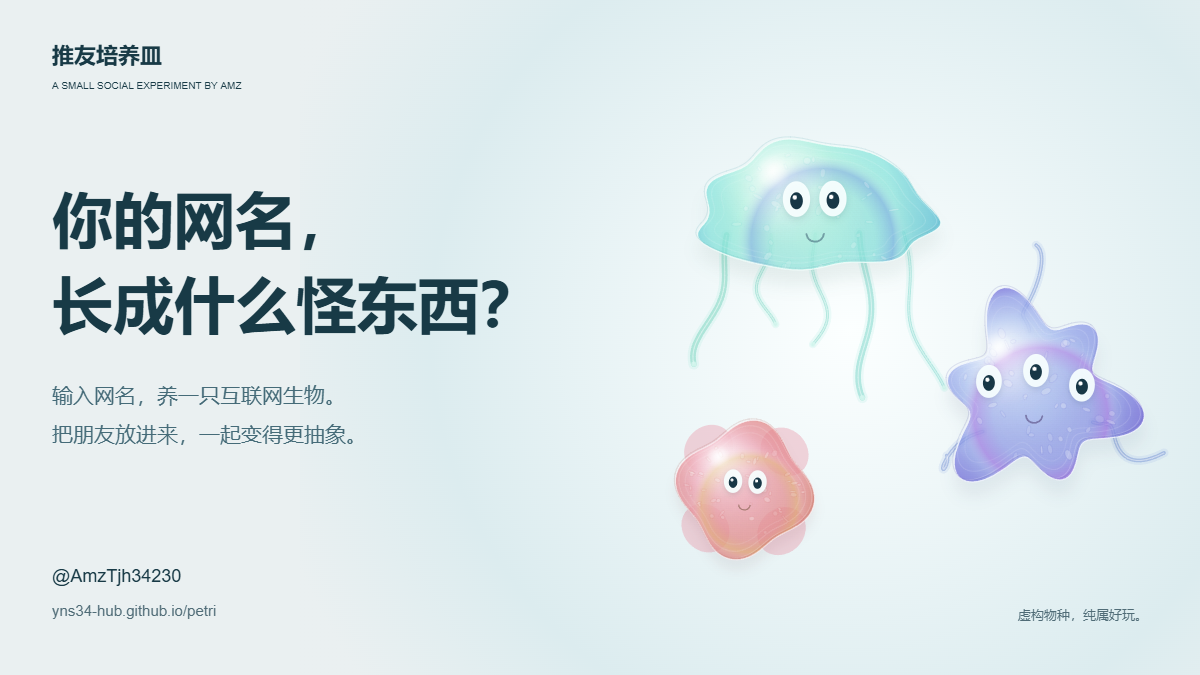
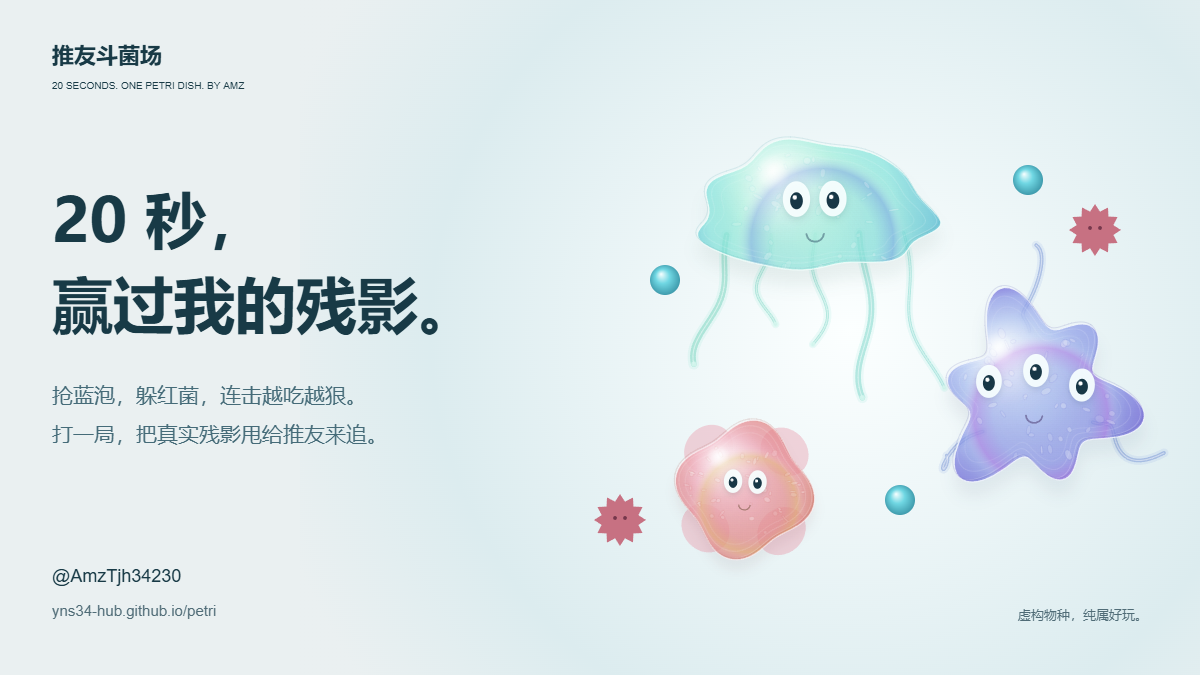
Add 20-second arena with real asynchronous ghost challenges

diff --git a/world.js b/world.js
@@ -1,4 +1,5 @@
 import { random } from './genetics.js';
+import { ROUND_SECONDS, REPLAY_HZ, REPLAY_FRAMES, sampleReplay, scoreTitle } from './battle.js';
 
 const TAU = Math.PI * 2;
 const color = (h,s,l,a=1) => `hsla(${h},${s}%,${l}%,${a})`;
@@ -101,14 +102,16 @@ export function drawCreature(ctx,s,x,y,r,t=0,options={}) {
 export class PetriWorld {
   constructor(canvas){
     this.canvas=canvas;this.ctx=canvas.getContext('2d');if(!this.ctx)throw new Error('Canvas unavailable');
-    this.specimens=[];this.particles=[];this.pointer={x:-999,y:-999,active:false};this.food=[];this.ripples=[];
+    this.specimens=[];this.particles=[];this.pointer={x:-999,y:-999,active:false};this.food=[];this.ripples=[];this.game=null;this.keys=new Set();
     this.t=0;this.last=0;this.lastDraw=0;this.width=0;this.height=0;this.paused=matchMedia('(prefers-reduced-motion: reduce)').matches;this.frame=0;
     this.resizeObserver=new ResizeObserver(()=>this.resize());this.resizeObserver.observe(canvas);
     this.onPointerMove=e=>{const rect=canvas.getBoundingClientRect();this.pointer={x:e.clientX-rect.left,y:e.clientY-rect.top,active:true};if(this.paused)this.draw();};
     this.onPointerLeave=()=>{this.pointer.active=false;};
-    this.onPointerDown=e=>{this.onPointerMove(e);const {x,y}=this.pointer;this.ripples.push({x,y,age:0});this.specimens.forEach(p=>{const dx=p.x-x,dy=p.y-y,d=Math.hypot(dx,dy);if(d<this.radius*.8){p.vx+=dx/Math.max(d,1)*140;p.vy+=dy/Math.max(d,1)*100;}});if(this.paused)this.draw();};
+    this.onPointerDown=e=>{this.onPointerMove(e);if(this.game)return;const {x,y}=this.pointer;this.ripples.push({x,y,age:0});this.specimens.forEach(p=>{const dx=p.x-x,dy=p.y-y,d=Math.hypot(dx,dy);if(d<this.radius*.8){p.vx+=dx/Math.max(d,1)*140;p.vy+=dy/Math.max(d,1)*100;}});if(this.paused)this.draw();};
     canvas.addEventListener('pointermove',this.onPointerMove);canvas.addEventListener('pointerleave',this.onPointerLeave);canvas.addEventListener('pointerdown',this.onPointerDown);
-    this.onVisibility=()=>{this.last=0;};document.addEventListener('visibilitychange',this.onVisibility);
+    this.onVisibility=()=>{this.last=0;if(document.hidden&&this.game)this.cancelGame('离开页面，本局已取消。再开一局就能重新挑战。');};document.addEventListener('visibilitychange',this.onVisibility);
+    this.onKeyDown=e=>{if(!this.game||e.target.closest('input,textarea,select'))return;const key=e.key.toLowerCase();if(['arrowup','arrowdown','arrowleft','arrowright','w','a','s','d',' '].includes(key)){e.preventDefault();this.keys.add(key);if(key===' '&&!e.repeat)this.dash();}};
+    this.onKeyUp=e=>this.keys.delete(e.key.toLowerCase());document.addEventListener('keydown',this.onKeyDown);document.addEventListener('keyup',this.onKeyUp);
     this.resize();this.animate=this.animate.bind(this);this.frame=requestAnimationFrame(this.animate);
   }
   resize(){
@@ -126,11 +129,45 @@ export class PetriWorld {
     for(let i=0;i<8;i++){const angle=i/8*TAU;this.food.push({x:this.cx+Math.cos(angle)*this.radius*.5,y:this.cy+Math.sin(angle)*this.radius*.48,life:7+i*.3});}
     this.specimens.forEach(p=>p.fed=3);if(this.paused)this.draw();
   }
-  togglePause(){this.paused=!this.paused;this.last=0;this.draw();return this.paused;}
+  togglePause(){if(this.game){this.cancelGame('本局已结束，准备好可以重新开战。');return this.paused;}this.paused=!this.paused;this.last=0;this.draw();return this.paused;}
+  startGame({specimen,seed,opponent,onTick,onFinish,onCancel}){
+    const rng=random(seed),spawn=()=>{const a=rng()*TAU,d=Math.sqrt(rng())*.77;return{x:Math.cos(a)*d,y:Math.sin(a)*d};};
+    this.game={specimen,seed,opponent,onTick,onFinish,onCancel,rng,spawn,started:performance.now()+1800,elapsed:0,x:-.3,y:.3,score:0,combo:0,lastEat:-5,hits:0,collected:0,safeUntil:0,dashUntil:0,dashReady:0,frames:[],dots:Array.from({length:5},spawn),lastHud:-1};
+    this.keys.clear();this.paused=false;this.pointer.active=false;this.canvas.classList.add('is-playing');this.draw();
+  }
+  dash(){const g=this.game;if(g&&g.elapsed>=g.dashReady){g.dashUntil=g.elapsed+.3;g.dashReady=g.elapsed+3;}}
+  cancelGame(message){const g=this.game;if(!g)return;this.game=null;this.canvas.classList.remove('is-playing');this.keys.clear();g.onCancel?.(message);this.draw();}
+  updateGame(dt,now){
+    const g=this.game;if(!g)return;g.elapsed=Math.max(0,Math.min(ROUND_SECONDS,(now-g.started)/1000));
+    if(now<g.started){g.onTick?.({remaining:ROUND_SECONDS,score:0,combo:0,opponentScore:g.opponent?0:null,dashReady:true,countdown:Math.ceil((g.started-now)/1000)});return;}
+    let dx=(this.keys.has('arrowright')||this.keys.has('d')?1:0)-(this.keys.has('arrowleft')||this.keys.has('a')?1:0),dy=(this.keys.has('arrowdown')||this.keys.has('s')?1:0)-(this.keys.has('arrowup')||this.keys.has('w')?1:0);
+    const usingKeys=dx||dy;
+    if(!usingKeys&&this.pointer.active){dx=(this.pointer.x-this.cx)/this.radius-g.x;dy=(this.pointer.y-this.cy)/this.radius-g.y;}
+    const distance=Math.hypot(dx,dy),speed=g.elapsed<g.dashUntil?2.7:1.25;
+    if(distance>.002){const step=Math.min(distance,dt*speed);g.x+=dx/distance*step;g.y+=dy/distance*step;}
+    const edge=Math.hypot(g.x,g.y);if(edge>.82){g.x*=.82/edge;g.y*=.82/edge;}
+    g.dots.forEach(dot=>{if(Math.hypot(dot.x-g.x,dot.y-g.y)<.13){g.combo=g.elapsed-g.lastEat<1.65?Math.min(5,g.combo+1):1;g.score+=10*g.combo;g.collected++;g.lastEat=g.elapsed;let next=g.spawn();for(let i=0;i<12&&Math.hypot(next.x-g.x,next.y-g.y)<.3;i++)next=g.spawn();dot.x=next.x;dot.y=next.y;}});
+    const hazards=this.gameHazards(g.elapsed);
+    if(g.elapsed>g.safeUntil&&hazards.some(h=>Math.hypot(h.x-g.x,h.y-g.y)<.16)){g.score=Math.max(0,g.score-15);g.combo=0;g.hits++;g.safeUntil=g.elapsed+1.1;}
+    // 每二百毫秒记录位置和真实累计分数，朋友打开后看到的是这一局的残影。
+    while(g.frames.length<Math.min(REPLAY_FRAMES,Math.floor(g.elapsed*REPLAY_HZ)+1))g.frames.push([g.x,g.y,g.score]);
+    if(g.elapsed-g.lastHud>.07){g.lastHud=g.elapsed;g.onTick?.({remaining:Math.max(0,ROUND_SECONDS-g.elapsed),score:g.score,combo:g.combo,opponentScore:g.opponent?sampleReplay(g.opponent.frames,g.elapsed).score:null,dashReady:g.elapsed>=g.dashReady});}
+    if(g.elapsed>=ROUND_SECONDS){while(g.frames.length<REPLAY_FRAMES)g.frames.push([g.x,g.y,g.score]);const result={seed:g.seed,score:g.score,frames:g.frames,hits:g.hits,collected:g.collected,opponentScore:g.opponent?.score??null};this.game=null;this.canvas.classList.remove('is-playing');this.keys.clear();g.onFinish?.(result);}
+  }
+  gameHazards(t){return[0,1,2].map((i)=>{const angle=t*(i===1?-.42:.35)+i*TAU/3;return{x:Math.cos(angle)*(.3+i*.13),y:Math.sin(angle)*(.38+i*.1)};});}
+  drawGame(){
+    const c=this.ctx,g=this.game;if(!g)return;const r=this.radius,toPixel=p=>({x:this.cx+p.x*r,y:this.cy+p.y*r});
+    g.dots.forEach((d,i)=>{const p=toPixel(d);const glow=c.createRadialGradient(p.x-2,p.y-3,0,p.x,p.y,r*.06);glow.addColorStop(0,'#f6ffff');glow.addColorStop(.28,'#66d7e8');glow.addColorStop(.74,'#329eb4');glow.addColorStop(1,'#359daf22');c.beginPath();c.arc(p.x,p.y,r*.048+Math.sin(this.t*4+i)*r*.003,0,TAU);c.fillStyle=glow;c.fill();});
+    this.gameHazards(g.elapsed).forEach((h,i)=>{const p=toPixel(h),points=[];for(let k=0;k<22;k++){const a=k/22*TAU,d=r*(k%2?.073:.1);points.push([p.x+Math.cos(a)*d,p.y+Math.sin(a)*d]);}const path=smoothPath(points);const fill=c.createRadialGradient(p.x-r*.03,p.y-r*.04,0,p.x,p.y,r*.11);fill.addColorStop(0,'#ffd2ce');fill.addColorStop(.45,'#db777f');fill.addColorStop(1,'#9b4357');c.fillStyle=fill;c.fill(path);c.fillStyle='#712b45';c.beginPath();c.arc(p.x-r*.024,p.y-r*.01,r*.009,0,TAU);c.arc(p.x+r*.024,p.y-r*.01,r*.009,0,TAU);c.fill();});
+    if(g.opponent){const ghost=sampleReplay(g.opponent.frames,g.elapsed),p=toPixel(ghost);c.save();c.globalAlpha=.45;drawCreature(c,g.opponent.specimen,p.x,p.y,r*.075,this.t,{blink:1});c.restore();c.beginPath();c.arc(p.x,p.y,r*.115,0,TAU);c.strokeStyle='#9d8ab47a';c.lineWidth=1;c.stroke();c.fillStyle='#725d98';c.font='10px Arial';c.textAlign='center';c.fillText(`@${g.opponent.specimen.name} 的残影`,p.x,p.y-r*.16,r*.9);}
+    const me=toPixel(g);c.save();if(g.elapsed<g.safeUntil)c.globalAlpha=.5+Math.sin(g.elapsed*25)*.3;drawCreature(c,g.specimen,me.x,me.y,r*.087,this.t,{blink:1});c.restore();
+    c.beginPath();c.arc(me.x,me.y,r*.12,0,TAU);c.strokeStyle='#176f8180';c.lineWidth=1.2;c.stroke();c.fillStyle='#183a46';c.font='10px "Microsoft YaHei",sans-serif';c.textAlign='center';c.fillText('你',me.x,me.y+r*.19);
+    if(g.elapsed<g.dashUntil){c.beginPath();c.arc(me.x,me.y,r*.12,0,TAU);c.strokeStyle='#fff';c.lineWidth=2;c.stroke();}
+  }
   animate(now){
     const dt=this.last?Math.min((now-this.last)/1000,.035):0;this.last=now;
     // 物理保持按真实时间更新，画面限于每秒约三十帧，避免手机反复计算玻璃阴影。
-    if(!this.paused&&!document.hidden){this.t+=dt;this.update(dt);if(now-this.lastDraw>=32){this.draw();this.lastDraw=now;}}
+    if(!this.paused&&!document.hidden){this.t+=dt;if(this.game)this.updateGame(dt,now);else this.update(dt);if(now-this.lastDraw>=32){this.draw();this.lastDraw=now;}}
     this.frame=requestAnimationFrame(this.animate);
   }
   update(dt){
@@ -168,6 +205,7 @@ export class PetriWorld {
   draw(){
     if(!this.ctx||!this.width)return;
     const c=this.ctx;c.clearRect(0,0,this.width,this.height);this.drawDish();
+    if(this.game){this.drawGame();return;}
     const two=this.specimens.length===2,r=this.radius*(two?.29:.43);
     this.ripples.forEach(w=>{c.beginPath();c.arc(w.x,w.y,w.age*this.radius*.48+8,0,TAU);c.lineWidth=1;c.strokeStyle=`rgba(255,255,255,${Math.max(0,.45-w.age*.2)})`;c.stroke();});
     for(const p of this.specimens){
@@ -177,18 +215,30 @@ export class PetriWorld {
     }
     this.food.forEach((f,i)=>{c.save();c.translate(f.x,f.y+Math.sin(this.t+i)*3);c.fillStyle='#c279957d';c.font='16px Arial';c.textAlign='center';c.fillText('♡',0,0);c.restore();});
   }
-  destroy(){cancelAnimationFrame(this.frame);this.resizeObserver.disconnect();this.canvas.removeEventListener('pointermove',this.onPointerMove);this.canvas.removeEventListener('pointerleave',this.onPointerLeave);this.canvas.removeEventListener('pointerdown',this.onPointerDown);document.removeEventListener('visibilitychange',this.onVisibility);}
+  destroy(){cancelAnimationFrame(this.frame);this.resizeObserver.disconnect();this.canvas.removeEventListener('pointermove',this.onPointerMove);this.canvas.removeEventListener('pointerleave',this.onPointerLeave);this.canvas.removeEventListener('pointerdown',this.onPointerDown);document.removeEventListener('visibilitychange',this.onVisibility);document.removeEventListener('keydown',this.onKeyDown);document.removeEventListener('keyup',this.onKeyUp);}
 }
 
 export function drawPoster(a,b,experiment){
   const canvas=document.createElement('canvas');canvas.width=1400;canvas.height=1700;const c=canvas.getContext('2d');if(!c)throw new Error('当前浏览器无法导出图片');
   c.fillStyle='#eaf0f1';c.fillRect(0,0,1400,1700);
   const grad=c.createRadialGradient(700,720,0,700,720,710);grad.addColorStop(0,'#fbffff');grad.addColorStop(.65,'#d3e9eb');grad.addColorStop(1,'#eaf0f1');c.fillStyle=grad;c.fillRect(0,0,1400,1700);
-  c.fillStyle='#183a46';c.font='bold 30px "Microsoft YaHei",sans-serif';c.fillText('推友培养皿',75,104);c.font='17px Arial';c.fillText('AMZ / INTERNET ORGANISMS',75,145);c.textAlign='right';c.font='23px Arial';c.fillText('@AmzTjh34230',1325,112);c.textAlign='left';
+  c.fillStyle='#183a46';c.font='bold 30px "Microsoft YaHei",sans-serif';c.fillText('推友斗菌场',75,104);c.font='17px Arial';c.fillText('AMZ / 20 SECONDS. ONE PETRI DISH.',75,145);c.textAlign='right';c.font='23px Arial';c.fillText('@AmzTjh34230',1325,112);c.textAlign='left';
   c.fillStyle='#526f7b';c.font='23px "Microsoft YaHei",sans-serif';c.fillText(b?'双人观察报告':'互联网物种证件',75,239);
   const specs=b?[a,b]:[a];specs.forEach((s,i)=>{const x=b?(i?985:415):700,y=690,r=b?200:290;drawCreature(c,s,x,y,r,1.8,{blink:1,gaze:{x:b?(i?-.7:.7):.1,y:0}});c.textAlign='center';c.fillStyle='#42636c';c.font='24px "Microsoft YaHei",sans-serif';c.fillText(`@${s.name}`,x,b?1090:1180,b?520:1200);});
   c.textAlign='left';c.fillStyle='#183a46';c.font=`bold ${b?64:63}px "Microsoft YaHei",sans-serif`;const title=b?experiment.title:a.title;c.fillText(title,75,1310);
   c.fillStyle='#506c77';c.font='29px "Microsoft YaHei",sans-serif';c.fillText(b?experiment.line:a.description,75,1382);c.font='27px "Microsoft YaHei",sans-serif';c.fillText(b?'把你们放在一起，会发生什么？':`「${a.quote}」`,75,1444);
   c.strokeStyle='#bed0d5';c.lineWidth=1;c.beginPath();c.moveTo(75,1510);c.lineTo(1325,1510);c.stroke();c.fillStyle='#2e5866';c.font='24px "Microsoft YaHei",sans-serif';c.fillText('你的网名，会长成什么样？',75,1574);c.font='22px Arial';c.textAlign='right';c.fillText('yns34-hub.github.io/petri',1325,1574);c.textAlign='left';c.fillStyle='#526e78';c.font='17px "Microsoft YaHei",sans-serif';c.fillText('由网名与心情生成 · 虚构物种，纯属好玩',75,1635);c.font='16px Arial';c.textAlign='right';c.fillText(a.code,1325,1635);
+  return canvas;
+}
+
+export function drawScorePoster(specimen,result){
+  const canvas=drawPoster(specimen,null,null),c=canvas.getContext('2d');
+  c.fillStyle='#eaf0f1';c.fillRect(0,190,1400,110);c.fillRect(0,1150,1400,360);
+  c.fillStyle='#506c77';c.font='25px "Microsoft YaHei",sans-serif';c.fillText(`推友斗菌场 / 20 秒真实战绩 / @${specimen.name}`,75,249,1250);
+  c.fillStyle='#183a46';c.font='bold 140px Arial';c.fillText(`${result.score}`,75,1305);c.font='32px "Microsoft YaHei",sans-serif';c.fillText('分',520,1300);
+  c.font='bold 51px "Microsoft YaHei",sans-serif';c.fillText(scoreTitle(result.score),75,1390);
+  c.fillStyle='#506c77';c.font='29px "Microsoft YaHei",sans-serif';c.fillText(`抢到 ${result.collected} 颗营养泡泡，碰撞 ${result.hits} 次。`,75,1450);
+  c.fillStyle='#183a46';c.font='26px "Microsoft YaHei",sans-serif';c.fillText('你能赢过我的残影吗？',780,1360);
+  c.fillStyle='#506c77';c.font='21px "Microsoft YaHei",sans-serif';c.fillText('打开挑战链接，同一场地见。',780,1410);
   return canvas;
 }

diff --git a/index.html b/index.html
@@ -2,39 +2,39 @@
 <html lang="zh-CN">
 <head>
   <meta charset="utf-8"><meta name="viewport" content="width=device-width,initial-scale=1,viewport-fit=cover">
-  <title>推友培养皿 · 你的网名，长成什么样？</title>
+  <title>推友斗菌场 · 20 秒，赢过我的残影</title>
   <meta name="theme-color" content="#eaf0f1">
-  <meta name="description" content="输入网名，养一只奇怪的互联网生物。把朋友也放进来，看看会不会一起发疯。AMZ 的社交小实验。">
-  <meta property="og:title" content="推友培养皿 · 把你的网名养成一种生物">
-  <meta property="og:description" content="你是潜水水母，还是抽象变形虫？把朋友也放进来，观察一下。">
+  <meta name="description" content="20 秒抢食竞技。吃蓝泡、躲红菌、冲刺连击。打完把真实操作残影发给朋友，来同一场地比分。AMZ 的推友斗菌场。">
+  <meta property="og:title" content="推友斗菌场 · 20 秒，赢过我的残影">
+  <meta property="og:description" content="抢蓝泡，躲红菌。打一局，把真实残影甩给朋友来追。">
   <meta property="og:type" content="website"><meta property="og:image" content="https://yns34-hub.github.io/petri/cover.png"><meta property="og:url" content="https://yns34-hub.github.io/petri/">
   <meta name="twitter:card" content="summary_large_image"><meta name="twitter:creator" content="@AmzTjh34230">
   <link rel="canonical" href="https://yns34-hub.github.io/petri/"><link rel="icon" href="./favicon.svg" type="image/svg+xml">
   <link rel="stylesheet" href="./style.css"><script type="module" src="./app.js"></script>
 </head>
 <body>
-  <header class="topbar"><a class="brand" href="./"><span class="brand-symbol" aria-hidden="true">◌</span><span>推友培养皿<small>A SMALL SOCIAL EXPERIMENT</small></span></a><nav><button class="quiet" id="about-open">实验说明</button><a class="creator" href="https://x.com/AmzTjh34230" target="_blank" rel="noopener noreferrer">AMZ 的小实验 ↗</a></nav></header>
+  <header class="topbar"><a class="brand" href="./"><span class="brand-symbol" aria-hidden="true">◌</span><span>推友斗菌场<small>20 SECONDS. ONE PETRI DISH.</small></span></a><nav><button class="quiet" id="about-open">怎么玩</button><a class="creator" href="https://x.com/AmzTjh34230" target="_blank" rel="noopener noreferrer">AMZ 的小实验 ↗</a></nav></header>
 
   <main class="lab">
-    <div class="scene-wrap"><canvas id="world" aria-label="会随指针游动的互联网生物培养皿" role="img"></canvas><div id="scene-error" hidden>当前浏览器没有开启画布。你仍然可以生成物种文字与分享链接。</div><div class="specimen-tag"><span class="tag-marker" aria-hidden="true"></span><span id="scene-code">AMZ / INTERNET ORGANISMS</span></div><div class="scene-guide"><span>戳一下它，或者投喂一点喜欢</span><div class="scene-controls"><button id="feed" aria-label="投喂生物">投喂 ♡</button><button id="pause" aria-label="暂停生物动画" aria-pressed="false">暂停 ⏸</button></div></div></div>
+    <div class="scene-wrap"><canvas id="world" tabindex="0" aria-label="抢食竞技场，鼠标或手指移动，方向键也可控制，空格冲刺" role="img"></canvas><div id="scene-error" hidden>当前浏览器没有开启画布，请换一个浏览器再玩。</div><div class="specimen-tag"><span class="tag-marker" aria-hidden="true"></span><span id="scene-code">AMZ / PETRI ARENA</span></div><div class="battle-hud" id="battle-hud" hidden><div><span>剩余时间</span><strong id="battle-time">20.0</strong></div><div><span>你的分数</span><strong id="battle-score">0</strong></div><div id="ghost-score-wrap" hidden><span>对手残影</span><strong id="ghost-score">0</strong></div></div><div id="battle-countdown" class="battle-countdown" hidden>2</div><div class="scene-guide"><span id="scene-hint">先挑一个选手，然后进入培养皿抢食。</span><div class="scene-controls"><button id="feed" aria-label="投喂生物">投喂 ♡</button><button id="pause" aria-label="暂停生物动画" aria-pressed="false">暂停 ⏸</button><button id="dash" hidden>冲刺 · 空格 ↗</button></div></div></div>
 
-    <section class="intro" aria-labelledby="headline"><p class="intro-kicker">你的互联网形状，有点奇怪。</p><h1 id="headline">把你的网名，<br>养成一种<span>生物。</span></h1><p class="intro-copy">有的只想潜水，有的一身反骨。<br>你呢，会长成什么样？</p>
+    <section class="intro" aria-labelledby="headline"><p class="intro-kicker">朋友的残影，已经在水里等你。</p><h1 id="headline">你养的怪东西，<br>能<span>赢过推友</span>吗？</h1><p class="intro-copy">20 秒抢食。蓝泡加分，红菌扣分。<br>连吃越快，连击越狠。</p><p id="opponent-invite" class="opponent-invite" hidden></p>
 
       <form id="specimen-form" novalidate><label for="name">先留下你的网名</label><div class="input-row"><span aria-hidden="true">@</span><input id="name" name="name" maxlength="48" autocomplete="off" autocapitalize="off" spellcheck="false" placeholder="网名或 X 用户名" value="AmzTjh34230" aria-describedby="name-error"><button class="grow-button" type="submit">养出来 ↗</button></div><p class="field-error" id="name-error" role="alert"></p><fieldset><legend>今天是哪一种状态？</legend><div class="mood-options"><label><input type="radio" name="mood" value="auto" checked><span>随便长长</span></label><label><input type="radio" name="mood" value="lurker"><span>默默潜水</span></label><label><input type="radio" name="mood" value="chaos"><span>有点抽象</span></label><label><input type="radio" name="mood" value="yapper"><span>忍不住说</span></label><label><input type="radio" name="mood" value="night"><span>半夜出没</span></label><label><input type="radio" name="mood" value="soft"><span>世界和平</span></label><label class="gallery-mood" hidden><input type="radio" name="mood" value="drift"><span>偶尔放电</span></label></div></fieldset></form>
 
-      <div class="social-teaser"><span aria-hidden="true">↳</span><p>再放进一位朋友，<br><b>观察你们会不会一起发疯。</b></p></div>
+      <div class="battle-entry"><button id="start-battle" class="start-battle">20 秒，开战 ↗</button><p>鼠标跟随 / 手机拖动 / WASD 移动<br>空格或按钮冲刺。碰红菌扣 15 分。</p></div>
     </section>
 
     <section class="observation" id="observation" aria-label="当前物种报告"><div class="observation-top"><span id="report-label">正在观察 / @AmzTjh34230</span><span class="mono" id="report-code"></span></div><h2 id="species-title">一只奇怪的互联网生物</h2><p id="species-description">在培养皿里漂一会儿。</p><blockquote id="species-quote"></blockquote><div class="trait-line"><span id="trait-one"></span><span id="trait-two"></span><span id="trait-three"></span></div><div class="report-actions"><button class="dark-button" id="save-poster">保存物种证件 ↓</button><button class="quiet" id="copy-link">复制这只生物的链接 ↗</button></div><p class="status" id="status" role="status" aria-live="polite"></p></section>
 
-    <section class="friend-lab" aria-labelledby="friend-title"><div class="friend-heading"><p class="section-kicker">两个人，会不会长出一点新东西？</p><h2 id="friend-title">把朋友也放进来。</h2><p>同一个培养皿，观察一场小小的化学反应。</p></div><form id="friend-form" novalidate><label for="friend-name">朋友的网名</label><div class="input-row"><span aria-hidden="true">@</span><input id="friend-name" maxlength="48" autocomplete="off" spellcheck="false" placeholder="想和谁一起观察？" aria-describedby="friend-error"><button class="grow-button" type="submit">放进来 ↗</button></div><p class="field-error" id="friend-error" role="alert"></p><div class="friend-actions"><button id="remove-friend" class="quiet" type="button" hidden>先让我独处</button><a id="share-x" href="https://twitter.com/intent/tweet" target="_blank" rel="noopener noreferrer">把实验发到 X ↗</a></div></form></section>
+    <section class="friend-lab" aria-labelledby="friend-title" hidden><div class="friend-heading"><p class="section-kicker">两个人，会不会长出一点新东西？</p><h2 id="friend-title">把朋友也放进来。</h2><p>同一个培养皿，观察一场小小的化学反应。</p></div><form id="friend-form" novalidate><label for="friend-name">朋友的网名</label><div class="input-row"><span aria-hidden="true">@</span><input id="friend-name" maxlength="48" autocomplete="off" spellcheck="false" placeholder="想和谁一起观察？" aria-describedby="friend-error"><button class="grow-button" type="submit">放进来 ↗</button></div><p class="field-error" id="friend-error" role="alert"></p><div class="friend-actions"><button id="remove-friend" class="quiet" type="button" hidden>先让我独处</button><a id="share-x" href="https://twitter.com/intent/tweet" target="_blank" rel="noopener noreferrer">发战绩到 X ↗</a></div></form></section>
 
     <section class="collection" aria-labelledby="collection-title"><div class="collection-heading"><h2 id="collection-title">水里什么人都有。</h2><p>点一只，看看不同心情的形状。</p></div><div class="specimen-collection" id="collection"></div></section>
   </main>
 
-  <footer><a href="https://x.com/AmzTjh34230" target="_blank" rel="noopener noreferrer">AMZ / @AmzTjh34230 ↗</a><p>按网名和心情长出来的虚构生物。纯属好玩，不读取账号。<br>每一只都在你的浏览器里长大。</p><span>Be water, my friend.</span></footer>
+  <footer><a href="https://x.com/AmzTjh34230" target="_blank" rel="noopener noreferrer">AMZ / @AmzTjh34230 ↗</a><p>朋友不必同时在线，挑战链接会带上这一局的残影。<br>养一只怪东西，来水里碰个面。</p><span>Be water, my friend.</span></footer>
 
-  <dialog id="about-dialog"><button class="close quiet" id="about-close">关闭 ×</button><p class="section-kicker">来自 AMZ 的小实验</p><h2>互联网很大，<br>先长成自己的形状。</h2><p>输入网名，挑一个心情，就会生成一种有脾气的虚构生物。相同网名和心情，长出来的样子相同。</p><p>点一下它会躲，投喂后会靠过来。把朋友的网名放进来，就能观察两只生物的关系。</p><p>这里的物种与关系都是娱乐创作，不分析你的真实账号或人格。没有联网排行榜、真人匹配和公开留言。</p><p>分享链接只携带你填写的网名与心情，打开即复现。保存的图片可以自行上传到 X。</p></dialog>
-  <dialog id="poster-dialog"><button class="close quiet" id="poster-close">关闭 ×</button><h2>带走这份物种证据。</h2><p>图片已生成。手机上也可以长按保存。</p><img id="poster-image" alt="推友培养皿物种证件"><a id="poster-download" class="dark-button" download="AMZ-物种证件.png">下载图片 ↓</a></dialog>
+  <dialog id="about-dialog"><button class="close quiet" id="about-close">关闭 ×</button><p class="section-kicker">一局 20 秒，培养皿里见</p><h2>吃蓝泡，躲红菌。<br>把分数留给朋友追。</h2><p>鼠标移动或手机手指拖动，控制你的小生物吃蓝色营养泡泡。连续吃到，连击最高五倍；红菌撞一次扣 15 分并中断连击。</p><p>WASD / 方向键也能移动。空格或冲刺按钮会短暂加速，三秒恢复一次。</p><p>打完会生成挑战链接。朋友打开后，你的真实操作残影会出现在同一场地，比的是二十秒后的最终分数。双方不必同时在线。</p><p>这里是本地趣味竞技。分享轨迹和分数可被修改，不提供认证排名。生物外观按网名和心情生成，不分析真实账号。</p></dialog>
+  <dialog id="poster-dialog"><button class="close quiet" id="poster-close">关闭 ×</button><h2 id="poster-title">带着战绩，去下战书。</h2><p>图片已生成。手机上也可以长按保存。</p><img id="poster-image" alt="推友斗菌场战绩海报"><a id="poster-download" class="dark-button" download="AMZ-战绩海报.png">下载图片 ↓</a></dialog>
 </body>
 </html>

diff --git a/app.js b/app.js
@@ -1,13 +1,19 @@
 import { makeSpecimen, makeExperiment, readLink, makeLink, MOODS } from './genetics.js';
-import { PetriWorld, drawCreature, drawPoster } from './world.js';
+import { PetriWorld, drawCreature, drawPoster, drawScorePoster } from './world.js';
+import { dailySeed, readMatch, makeMatchLink, scoreTitle } from './battle.js';
 
 const $=id=>document.getElementById(id);
-let world=null,posterUrl='',a=makeSpecimen('AmzTjh34230','lurker'),b=null;
+let world=null,posterUrl='',a=makeSpecimen('AmzTjh34230','lurker'),b=null,lastRound=null,roundSpecimen=null;
+const opponent=readMatch(location.search);
 const shared=readLink(location.search);if(shared.a)a=shared.a;if(shared.a&&shared.b)b=shared.b;
+if(opponent){let playerName='新来的推友';try{playerName=localStorage.getItem('amz-arena-name')||playerName;}catch{}a=makeSpecimen(playerName,'auto');b=null;$('opponent-invite').hidden=false;$('opponent-invite').textContent=`@${opponent.specimen.name} 留下 ${opponent.score} 分，等你来赢。`;}
 $('name').value=a.name;document.querySelector(`input[name="mood"][value="${a.mood}"]`).checked=true;if(b)$('friend-name').value=b.name;
 try{world=new PetriWorld($('world'));}catch{$('scene-error').hidden=false;}
 
 function render(){
+  lastRound=null;
+  document.querySelector('.intro-kicker').textContent=opponent?'朋友的残影，已经在水里等你。':'20 秒，谁的微生物更能抢？';
+  $('share-x').hidden=true;
   const experiment=b?makeExperiment(a,b):null;
   world?.set(a,b,experiment);
   $('report-label').textContent=b?`双人观察 / @${a.name} + @${b.name}`:`正在观察 / @${a.name}`;
@@ -25,10 +31,13 @@ function render(){
   const text=b?`我把自己和 @${b.name} 关进了同一个培养皿。\n观察结果：${experiment.title}。\n${experiment.line}\n\n@AmzTjh34230 做的这个有点抽象。`:`我的网名长成了一只「${a.title}」。\n${a.description}\n\n你是什么物种？来养一下。\n@AmzTjh34230 的推友培养皿`;
   const intent=new URL('https://twitter.com/intent/tweet');intent.searchParams.set('text',text);intent.searchParams.set('url',makeLink(location.href,a,b));$('share-x').href=intent.toString();
   // 更新地址但不刷新画面；刷新或分享时能够复现当前网名与心情。
-  history.replaceState(null,'',makeLink(location.href,a,b));
+  if(!opponent)history.replaceState(null,'',makeLink(location.href,a,b));
+  $('copy-link').textContent='复制场地链接 ↗';
+  $('scene-hint').textContent='移动吃蓝泡，绕开红菌。准备好就开战。';
   $('observation').classList.remove('is-growing');requestAnimationFrame(()=>$('observation').classList.add('is-growing'));
 }
 render();
+document.querySelector('.report-actions').append($('share-x'));
 if(world?.paused){$('pause').textContent='继续 ▶';$('pause').setAttribute('aria-pressed','true');}
 $('specimen-form').addEventListener('submit',e=>{
   e.preventDefault();$('name-error').textContent='';
@@ -46,8 +55,8 @@ $('pause').addEventListener('click',()=>{
   if(!world)return;const paused=world.togglePause();$('pause').textContent=paused?'继续 ▶':'暂停 ⏸';$('pause').setAttribute('aria-pressed',String(paused));$('pause').setAttribute('aria-label',paused?'继续生物动画':'暂停生物动画');
 });
 $('copy-link').addEventListener('click',async()=>{
-  const link=makeLink(location.href,a,b);
-  try{await navigator.clipboard.writeText(link);$('status').textContent='链接已复制。朋友打开，就能看到同一只生物。';}
+  const link=lastRound?makeMatchLink(location.href,lastRound,roundSpecimen):opponent?location.href:makeLink(location.href,a,null);
+  try{await navigator.clipboard.writeText(link);$('status').textContent=lastRound?'挑战链接已复制。朋友打开，就能和你这一局的残影比赛。':'场地链接已复制，打一局后就能分享你的残影。';}
   catch{$('status').textContent=`可以手动复制浏览器地址，或此链接：${link}`;}
 });
 $('about-open').addEventListener('click',()=>$('about-dialog').showModal());$('about-close').addEventListener('click',()=>$('about-dialog').close());$('poster-close').addEventListener('click',()=>$('poster-dialog').close());
@@ -55,14 +64,15 @@ $('about-open').addEventListener('click',()=>$('about-dialog').showModal());$('a
 $('save-poster').addEventListener('click',async()=>{
   const button=$('save-poster');button.disabled=true;
   // 先抓取当前实验快照，等待字体和编码时继续操作也不会改变这份导出。
-  const savedA=a,savedB=b;
+  const savedA=a,savedB=b,savedRound=lastRound,savedRoundSpecimen=roundSpecimen;
   try{
     await document.fonts.ready;
-    const canvas=drawPoster(savedA,savedB,savedB?makeExperiment(savedA,savedB):null);
+    const canvas=savedRound?drawScorePoster(savedRoundSpecimen,savedRound):drawPoster(savedA,savedB,savedB?makeExperiment(savedA,savedB):null);
     const blob=await new Promise(resolve=>canvas.toBlob(resolve,'image/png'));if(!blob)throw new Error('图片没有生成成功，可以再试一次。');
     if(posterUrl)URL.revokeObjectURL(posterUrl);posterUrl=URL.createObjectURL(blob);
-    $('poster-image').src=posterUrl;$('poster-download').href=posterUrl;$('poster-download').download=`AMZ-${savedB?'双人观察报告':savedA.species}.png`;
-    $('poster-dialog').showModal();$('status').textContent='物种证据已生成，可以带回时间线了。';
+    $('poster-image').src=posterUrl;$('poster-download').href=posterUrl;$('poster-download').download=`AMZ-${savedRound?`${savedRound.score}分战绩`:savedB?'双人观察报告':savedA.species}.png`;
+    $('poster-title').textContent=savedRound?'带着战绩，去下战书。':'带走你的奇怪选手。';$('poster-image').alt=savedRound?'推友斗菌场真实战绩海报':'推友斗菌场选手物种证件';
+    $('poster-dialog').showModal();$('status').textContent=savedRound?'战绩海报已生成。记得同时带上残影挑战链接。':'选手证件已生成，可以保存。';
   }catch(error){$('status').textContent=error.message||'暂时无法导出，可以先截图保存。';}
   finally{button.disabled=false;}
 });
@@ -80,4 +90,45 @@ for(const [mood,title]of gallery){
     catch(error){$('name-error').textContent=error.message;$('name').focus();}
   });$('collection').append(button);
 }
+
+function battleState(playing){
+  for(const element of document.querySelectorAll('#specimen-form input,#specimen-form button,.collection-item'))element.disabled=playing;
+  $('start-battle').disabled=playing;$('start-battle').textContent=playing?'正在抢食…':'再来一局 ↗';
+  $('feed').hidden=playing;$('pause').hidden=playing;$('dash').hidden=!playing;$('save-poster').disabled=playing;
+  if(!playing)$('battle-countdown').hidden=true;
+}
+
+$('dash').addEventListener('click',()=>world?.dash());
+$('start-battle').addEventListener('click',()=>{
+  if(!world){$('status').textContent='当前浏览器无法开启竞技场，请换一个浏览器。';return;}
+  try{a=makeSpecimen($('name').value,document.querySelector('input[name="mood"]:checked').value);$('name-error').textContent='';}
+  catch(error){$('name-error').textContent=error.message;return;}
+  render();battleState(true);$('battle-hud').hidden=false;$('ghost-score-wrap').hidden=!opponent;$('battle-score').textContent='0';$('battle-time').textContent='20.0';$('scene-hint').textContent='蓝泡加分 · 红菌扣 15 · 连吃有加成';
+  try{localStorage.setItem('amz-arena-name',a.name);}catch{}
+  const canvas=$('world');canvas.scrollIntoView({behavior:'instant',block:'center'});canvas.focus({preventScroll:true});
+  world.startGame({specimen:a,seed:opponent?.seed??dailySeed(),opponent,
+    onTick:state=>{
+      $('battle-time').textContent=state.remaining.toFixed(1);$('battle-score').textContent=String(state.score);
+      if(state.opponentScore!==null)$('ghost-score').textContent=String(state.opponentScore);
+      $('battle-countdown').hidden=!state.countdown;if(state.countdown)$('battle-countdown').textContent=state.countdown;
+      $('dash').textContent=state.dashReady?'冲刺 · 空格 ↗':'冲刺恢复中';
+      if(!state.countdown)$('scene-hint').textContent=state.combo>=2?`连击 ×${state.combo}！下一颗快一点。`:'蓝泡加分 · 红菌扣 15 · 连吃有加成';
+    },
+    onCancel:message=>{battleState(false);$('status').textContent=message;$('scene-hint').textContent='这一局没有记录。准备好可以重新开始。';},
+    onFinish:result=>{
+      battleState(false);lastRound=result;roundSpecimen=a;world.set(a,opponent?.specimen||null,opponent?{behavior:'close'}:null);
+      $('battle-time').textContent='0.0';$('battle-score').textContent=String(result.score);if(opponent)$('ghost-score').textContent=String(opponent.score);
+      $('report-label').textContent=`20 秒真实战绩 / @${a.name}`;
+      const outcome=opponent?result.score>opponent.score?'你赢了！':result.score===opponent.score?'平手，再来！':'这一局，朋友赢了。':scoreTitle(result.score);
+      $('species-title').textContent=`${result.score} 分 · ${outcome}`;$('species-description').textContent=`抢到 ${result.collected} 颗营养泡泡，碰到 ${result.hits} 次红菌。`;
+      $('species-quote').textContent=opponent?`对手 ${opponent.score} 分，你 ${result.score} 分。${result.score>opponent.score?'把胜利甩回时间线。':'把你的残影发出去，换朋友来追。'}`:'把你的残影留在培养皿里，让朋友追一次。';
+      $('trait-one').textContent=a.species;$('trait-two').textContent='20 秒限时';$('trait-three').textContent='同场地异步挑战';
+      $('save-poster').textContent='保存战绩海报 ↓';$('copy-link').textContent='复制我的残影挑战 ↗';
+      const link=makeMatchLink(location.href,result,a),intent=new URL('https://twitter.com/intent/tweet');intent.searchParams.set('text',`我在「推友斗菌场」20秒抢了 ${result.score} 分。\n我的小怪物已经留在水里了，来打我的残影。\n\n@AmzTjh34230 做的，别光看，来赢我。`);intent.searchParams.set('url',link);$('share-x').href=intent.toString();
+      $('share-x').hidden=false;
+      $('status').textContent='这一局的真实轨迹已生成，复制链接就能邀战。';$('scene-hint').textContent=opponent?outcome:'残影已就位，等朋友来挑战。';
+      $('observation').scrollIntoView({behavior:matchMedia('(prefers-reduced-motion: reduce)').matches?'instant':'smooth',block:'center'});
+    }
+  });
+});
 window.addEventListener('pagehide',(event)=>{if(!event.persisted){world?.destroy();if(posterUrl)URL.revokeObjectURL(posterUrl);}});

diff --git a/style.css b/style.css
@@ -6,9 +6,12 @@
 .observation{position:relative;z-index:2;margin:0 0 0 43%;min-height:225px;padding:25px 29px 15px;background:var(--glass);border:1px solid #fff;border-radius:18px;box-shadow:0 14px 50px #385e7010;backdrop-filter:blur(15px)}.observation-top{display:flex;align-items:center;justify-content:space-between;gap:15px;font-size:10px;color:var(--muted);margin-bottom:15px}.observation-top>span:first-child{overflow-wrap:anywhere}.observation-top .mono{font-size:9px;white-space:nowrap;opacity:.9}.observation h2{font-size:29px;letter-spacing:-.04em;margin:0 0 10px}.observation>p{font-size:12px;color:var(--muted);line-height:1.7;margin:0}.observation blockquote{border:0;padding:0;margin:17px 0;font-size:14px;line-height:1.7;color:var(--ink)}.trait-line{display:flex;gap:9px 20px;flex-wrap:wrap;font-size:10px;color:var(--muted);margin-bottom:21px}.trait-line span:before{content:"/ ";color:#8babb4}.report-actions{display:flex;align-items:center;gap:20px}.dark-button{display:inline-flex;justify-content:center;align-items:center;border:0;background:var(--ink);color:var(--white);border-radius:9px;padding:13px 18px;font-size:11px;white-space:nowrap}.dark-button:hover{background:#2d6272}.report-actions>.quiet{font-size:11px}.status{min-height:18px!important;margin-top:10px!important;font-size:10px!important;color:#17677b!important;overflow-wrap:anywhere}.is-growing{animation:grow-report .5s ease both}
 .friend-lab{position:relative;z-index:2;display:grid;grid-template-columns:1fr 1.15fr;gap:12%;padding:55px 0;margin-top:45px;border-top:1px solid var(--line);border-bottom:1px solid var(--line)}.section-kicker{font-size:11px;color:var(--muted);margin:0 0 17px}.friend-heading h2,.collection h2{font-size:28px;font-weight:600;letter-spacing:-.04em;margin:0 0 12px}.friend-heading>p:last-child{font-size:12px;line-height:1.8;color:var(--muted);margin:0}.friend-lab form{padding-top:3px}.friend-actions{display:flex;align-items:center;justify-content:space-between;gap:20px;min-height:25px}.friend-actions a{font-size:11px;color:var(--accent);margin-left:auto}.friend-actions .quiet{font-size:11px}.collection{padding:45px 0 57px}.collection-heading{display:flex;align-items:baseline;gap:26px;margin-bottom:24px}.collection h2{font-size:20px;margin:0}.collection-heading p{font-size:11px;color:var(--muted);margin:0}.specimen-collection{display:grid;grid-template-columns:repeat(6,1fr);gap:11px}.collection-item{padding:0;border:none;background:transparent;text-align:center;position:relative;overflow:hidden}.collection-item canvas{display:block;width:100%;aspect-ratio:1.25}.collection-item strong{display:block;font-size:12px;font-weight:500;line-height:1.5;margin-top:-7px}.collection-item>span{display:block;color:var(--muted);font-size:9px;margin-top:5px}.collection-item:hover canvas{filter:saturate(1.2)}.collection-item:hover strong{color:var(--accent)}
 footer{display:flex;justify-content:space-between;gap:30px;max-width:1600px;margin:auto;padding:30px 5% 35px;border-top:1px solid var(--line);align-items:center;font-size:10px;color:var(--muted)}footer a{color:var(--ink);font-size:11px}footer p{line-height:1.9;margin:0}footer>span{font-size:10px;font-style:italic}dialog{background:#f1f6f7;color:var(--ink);border:1px solid #fff;border-radius:18px;max-width:560px;width:calc(100% - 30px);padding:42px;max-height:90dvh;overflow:auto;box-shadow:0 20px 90px #29495830}dialog::backdrop{background:#1b36497a;backdrop-filter:blur(10px)}dialog .close{position:absolute;right:22px;top:15px}dialog h2{font-size:30px;line-height:1.4;letter-spacing:-.04em;margin:13px 0 25px}dialog p{font-size:12px;line-height:1.95;color:var(--muted)}#poster-dialog{padding:35px 24px 20px;max-width:490px}#poster-dialog h2{font-size:21px;margin-bottom:7px}#poster-dialog p{margin-top:0}#poster-image{display:block;width:100%;border-radius:8px;margin:18px 0}#poster-download{width:100%}
+.battle-entry{margin-top:23px}.start-battle{width:100%;padding:16px;border:0;border-radius:11px;background:#176f81;color:#fff;font-size:15px;font-weight:650;box-shadow:0 7px 22px #176f811c}.start-battle:hover{background:#125d70}.battle-entry p{font-size:10px;line-height:1.8;color:var(--muted);margin:11px 0}.opponent-invite{font-size:12px;line-height:1.7;background:#d7e9eb;border-left:3px solid #176f81;padding:11px 13px;margin:0 0 18px}.battle-hud{position:absolute;top:62px;left:30%;right:10%;display:flex;justify-content:center;gap:38px;pointer-events:none;z-index:3}.battle-hud>div{display:flex;flex-direction:column;align-items:center;gap:6px}.battle-hud span{font-size:10px;color:#4a6976}.battle-hud strong{font:700 31px LabMono,monospace;color:#183a46}.battle-hud #ghost-score{color:#7b628c}.battle-countdown{position:absolute;inset:0;display:grid;place-items:center;font:700 110px LabMono,monospace;color:#183a46;pointer-events:none;z-index:3}#world.is-playing{touch-action:none;cursor:none}.report-actions{flex-wrap:wrap}.report-actions #share-x{font-size:11px;color:var(--accent)}.collection{border-top:1px solid var(--line);margin-top:35px}.intro{min-height:740px}.scene-wrap{height:755px}
+#world:focus-visible{outline:2px solid #7babb4;outline-offset:-8px;border-radius:30px}
 @keyframes grow-report{from{opacity:.5;transform:translateY(7px)}to{opacity:1;transform:translateY(0)}}
 @media(min-width:1450px){.scene-wrap{height:755px}.intro{min-height:715px;padding-top:70px}.scene-guide{bottom:38px}.observation{margin-top:6px}}
 @media(max-width:1000px){.lab{padding:0 4%}.topbar{padding:0 4%;height:85px}.intro{width:43%;padding-top:45px;min-height:640px}h1{font-size:43px}.scene-wrap{width:68%;height:670px;right:0}.scene-guide{right:4%;left:28%}.observation{margin-left:37%}.observation h2{font-size:26px}.friend-lab{gap:7%;padding:40px 0}.mood-options{gap:6px}.mood-options span{font-size:10px;padding:8px 5px}.input-row{gap:5px;padding-left:10px}.grow-button{padding:12px 10px}.input-row input{font-size:12px}.specimen-collection{gap:3px}.collection-item strong{font-size:11px}.report-actions{gap:15px}footer{padding:25px 4%}}
 @media(max-width:680px){.topbar{height:76px;padding:0 22px}.brand{font-size:15px;gap:8px}.brand-symbol{font-size:36px}.brand small{font-size:6px;margin-top:5px}nav{gap:17px}.quiet,.creator{font-size:10px}.lab{padding:0 22px}.intro{width:100%;padding-top:22px;min-height:0}.intro-kicker{font-size:10px;margin-bottom:13px}h1{font-size:44px;line-height:1.16;letter-spacing:-.065em;margin-bottom:15px}.intro-copy{font-size:12px;line-height:1.8;margin-bottom:21px}.intro-copy br{display:none}form>label{font-size:10px;margin-bottom:9px}.input-row{min-height:49px;border-radius:11px}.input-row input{font-size:12px}.grow-button{font-size:11px;padding:11px 15px}.field-error{font-size:10px;min-height:11px;margin:6px 0 7px}legend{font-size:10px;margin-bottom:10px}.mood-options{grid-template-columns:repeat(3,1fr);gap:7px}.mood-options span{font-size:10px;padding:7px 9px}.social-teaser{display:none}.scene-wrap{position:relative;top:auto;right:auto;margin:9px -22px -8px;width:calc(100% + 44px);height:410px}.specimen-tag{top:13px;right:22px;font-size:8px}.scene-guide{bottom:10px;left:0;right:0;gap:10px;font-size:10px}.scene-controls button{font-size:10px;padding:8px 17px}.lab{display:flex;flex-direction:column}.intro{order:0}.scene-wrap{order:1}.observation{order:2;margin:0;padding:22px 21px 12px;min-height:0;border-radius:16px}.observation-top{font-size:9px;gap:5px;margin-bottom:14px}.observation-top .mono{font-size:8px}.observation h2{font-size:26px;line-height:1.4;margin-bottom:9px}.observation>p{font-size:11px}.observation blockquote{font-size:13px;margin:16px 0}.trait-line{font-size:9px;gap:8px 13px;margin-bottom:18px}.report-actions{gap:13px;align-items:center}.dark-button{font-size:10px;padding:12px 15px;border-radius:8px}.report-actions>.quiet{font-size:10px}.friend-lab{order:3;grid-template-columns:1fr;gap:25px;margin-top:32px;padding:30px 0}.section-kicker{font-size:10px;margin-bottom:13px}.friend-heading h2{font-size:26px}.friend-heading>p:last-child{font-size:11px}.friend-actions a,.friend-actions .quiet{font-size:10px}.collection{order:4;padding:31px 0 35px}.collection-heading{display:block;margin-bottom:12px}.collection h2{font-size:20px;margin-bottom:9px}.collection-heading p{font-size:10px}.specimen-collection{grid-template-columns:repeat(3,1fr);gap:19px 8px}.collection-item strong{font-size:11px}.collection-item>span{font-size:9px}footer{padding:25px 22px 29px;display:grid;grid-template-columns:1fr 1fr;gap:16px;font-size:9px}footer p{grid-column:1/-1;grid-row:2}footer>span{text-align:right;font-size:9px}footer a{font-size:10px}dialog{padding:37px 24px 23px}dialog h2{font-size:26px}dialog p{font-size:11px}}
 @media(max-width:365px){.topbar{padding:0 17px}.lab{padding:0 17px}h1{font-size:39px}.scene-wrap{margin-left:-17px;margin-right:-17px;width:calc(100% + 34px);height:360px}.creator{font-size:9px}nav{gap:12px}.observation{padding:19px 17px 11px}.report-actions{gap:11px}.report-actions>.quiet{font-size:9px}.dark-button{padding:12px;font-size:10px}}
 @media(prefers-reduced-motion:reduce){*{animation:none!important;transition:none!important;scroll-behavior:auto!important}}
+@media(max-width:680px){.intro{min-height:0}.scene-wrap{height:410px}.battle-entry{margin-top:17px}.start-battle{padding:14px;font-size:13px}.battle-entry p{font-size:9px}.battle-hud{left:12%;right:12%;top:35px;gap:28px}.battle-hud strong{font-size:26px}.battle-hud span{font-size:9px}.battle-countdown{font-size:80px}.opponent-invite{font-size:11px;padding:9px 11px}.report-actions #share-x{font-size:10px}.collection{margin-top:25px}}

diff --git a/press.js b/press.js
@@ -4,11 +4,14 @@ const canvas=document.getElementById('cover'),c=canvas.getContext('2d');
 await document.fonts.ready;
 c.fillStyle='#eaf0f1';c.fillRect(0,0,1200,675);
 const glow=c.createRadialGradient(850,330,0,850,330,600);glow.addColorStop(0,'#fcffff');glow.addColorStop(.7,'#dcecef');glow.addColorStop(1,'#eaf0f1');c.fillStyle=glow;c.fillRect(300,0,900,675);
-c.fillStyle='#183a46';c.font='bold 22px "Microsoft YaHei",sans-serif';c.fillText('推友培养皿',52,63);c.font='10px Arial';c.fillText('A SMALL SOCIAL EXPERIMENT BY AMZ',52,89);
-c.font='bold 61px "Microsoft YaHei",sans-serif';c.fillText('你的网名，',52,242);c.fillText('长成什么怪东西？',52,327);
-c.fillStyle='#456b78';c.font='21px "Microsoft YaHei",sans-serif';c.fillText('输入网名，养一只互联网生物。',52,403);c.fillText('把朋友放进来，一起变得更抽象。',52,442);
+c.fillStyle='#183a46';c.font='bold 22px "Microsoft YaHei",sans-serif';c.fillText('推友斗菌场',52,63);c.font='10px Arial';c.fillText('20 SECONDS. ONE PETRI DISH. BY AMZ',52,89);
+c.font='bold 61px "Microsoft YaHei",sans-serif';c.fillText('20 秒，',52,242);c.fillText('赢过我的残影。',52,327);
+c.fillStyle='#456b78';c.font='21px "Microsoft YaHei",sans-serif';c.fillText('抢蓝泡，躲红菌，连击越吃越狠。',52,403);c.fillText('打一局，把真实残影甩给推友来追。',52,442);
 const scenes=[['lurker',815,220,105],['chaos',1035,395,98],['soft',745,490,70]];
 for(const [m,x,y,r]of scenes){const s=makeSpecimen('AmzTjh34230',m);drawCreature(c,s,x,y,r,1.8,{blink:1});}
+// 封面中的营养泡泡和污染团沿用游戏的颜色，帮助一眼识别抢食玩法。
+for(const [x,y]of [[665,280],[1028,180],[900,500]]){const g=c.createRadialGradient(x-4,y-6,0,x,y,18);g.addColorStop(0,'#f8ffff');g.addColorStop(.4,'#70d7e3');g.addColorStop(1,'#328b9e');c.beginPath();c.arc(x,y,15,0,Math.PI*2);c.fillStyle=g;c.fill();}
+for(const [x,y]of [[1095,230],[620,520]]){c.beginPath();for(let i=0;i<24;i++){const a=i/24*Math.PI*2,r=i%2?19:26;c.lineTo(x+Math.cos(a)*r,y+Math.sin(a)*r);}c.closePath();c.fillStyle='#c77182';c.fill();c.fillStyle='#76374c';c.beginPath();c.arc(x-5,y-2,2,0,Math.PI*2);c.arc(x+5,y-2,2,0,Math.PI*2);c.fill();}
 c.fillStyle='#183a46';c.font='18px Arial';c.fillText('@AmzTjh34230',52,582);c.fillStyle='#506c77';c.font='15px Arial';c.fillText('yns34-hub.github.io/petri',52,616);c.textAlign='right';c.font='13px "Microsoft YaHei",sans-serif';c.fillText('虚构物种，纯属好玩。',1148,620);
 async function download(picture,name){const blob=await new Promise(resolve=>picture.toBlob(resolve,'image/png'));if(!blob)return;const url=URL.createObjectURL(blob);const a=document.createElement('a');a.href=url;a.download=name;document.body.append(a);a.click();a.remove();setTimeout(()=>URL.revokeObjectURL(url),30000);}
 document.getElementById('cover-download').addEventListener('click',()=>download(canvas,'AMZ-培养皿-封面.png'));

diff --git a/battle.js b/battle.js
@@ -1,0 +1,55 @@
+import { hashString, makeSpecimen } from './genetics.js';
+
+export const ROUND_SECONDS=20;
+export const REPLAY_HZ=5;
+export const REPLAY_FRAMES=ROUND_SECONDS*REPLAY_HZ+1;
+
+export function dailySeed(){
+  const date=new Intl.DateTimeFormat('en-CA',{timeZone:'Asia/Shanghai',year:'numeric',month:'2-digit',day:'2-digit'}).format(new Date());
+  return hashString(`AMZ-PETRI-ARENA-1|${date}`);
+}
+
+export function encodeReplay(frames){
+  if(!Array.isArray(frames)||frames.length!==REPLAY_FRAMES)throw new Error('一局完整的挑战才能分享');
+  const bytes=new Uint8Array(frames.length*4);
+  frames.forEach((f,i)=>{
+    if(!Array.isArray(f)||f.length!==3||!f.every(Number.isFinite))throw new Error('轨迹数据无效');
+    const score=Math.max(0,Math.min(9999,Math.round(f[2])));
+    bytes[i*4]=Math.round((Math.max(-1,Math.min(1,f[0]))+1)*127.5);
+    bytes[i*4+1]=Math.round((Math.max(-1,Math.min(1,f[1]))+1)*127.5);
+    bytes[i*4+2]=score>>8;bytes[i*4+3]=score&255;
+  });
+  return btoa(String.fromCharCode(...bytes)).replaceAll('+','-').replaceAll('/','_').replaceAll('=','');
+}
+
+export function decodeReplay(text){
+  if(typeof text!=='string'||text.length>600||!/^[A-Za-z0-9_-]+$/.test(text))return null;
+  try{
+    const raw=atob(text.replaceAll('-','+').replaceAll('_','/'));
+    if(raw.length!==REPLAY_FRAMES*4)return null;
+    const frames=[];
+    for(let i=0;i<raw.length;i+=4){const score=raw.charCodeAt(i+2)*256+raw.charCodeAt(i+3);if(score>9999)return null;frames.push([raw.charCodeAt(i)/127.5-1,raw.charCodeAt(i+1)/127.5-1,score]);}
+    return frames;
+  }catch{return null;}
+}
+
+export function makeMatchLink(href,result,specimen){
+  const url=new URL(href);url.search='';url.hash='';
+  url.searchParams.set('a',specimen.name);url.searchParams.set('m',specimen.mood);
+  url.searchParams.set('seed',String(result.seed>>>0));url.searchParams.set('r',encodeReplay(result.frames));
+  return url.toString();
+}
+
+export function readMatch(search){
+  const p=new URLSearchParams(search),frames=decodeReplay(p.get('r'));
+  if(!frames||!/^\d{1,10}$/.test(p.get('seed')||''))return null;
+  const seed=Number(p.get('seed'));if(seed<0||seed>4294967295)return null;
+  try{return {specimen:makeSpecimen(p.get('a'),p.get('m')),seed,frames,score:frames.at(-1)[2]};}catch{return null;}
+}
+
+export function sampleReplay(frames,time){
+  const index=Math.max(0,Math.min(frames.length-1,time*REPLAY_HZ)),a=frames[Math.floor(index)],b=frames[Math.min(Math.floor(index)+1,frames.length-1)],u=index%1;
+  return {x:a[0]+(b[0]-a[0])*u,y:a[1]+(b[1]-a[1])*u,score:a[2]};
+}
+
+export function scoreTitle(score){return score>=900?'培养皿霸主':score>=650?'抢食天花板':score>=400?'水下狠角色':score>=200?'进化中选手':'刚刚学会游泳';}
